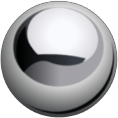
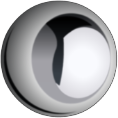
Finished 'Play' mobile menu

diff --git a/eLMaze-Mobile/core/src/com/mygdx/elmaze/view/PlayGameView.java b/eLMaze-Mobile/core/src/com/mygdx/elmaze/view/PlayGameView.java
@@ -24,41 +24,23 @@ public class PlayGameView extends MenuView {
         super(game, TYPE.PLAY);
 
         loadAssets();
-        setupTextImage();
-        setupBallImage();
         setupStage();
     }
 
     @Override
     public void render(float delta) {
-        //handleInputs();
+        handleInputs();
 
         stage.act(delta); //Perform ui logic
         stage.draw(); //Draw the UI
     }
 
     private void setupStage() {
+        textImage = ImageFactory.makeImage(game,"playText.png", SCREEN_WIDTH*5/7, SCREEN_HEIGHT/2,SCREEN_WIDTH*3/10);
+        ballImage = ImageFactory.makeImage(game,"ball.png", SCREEN_WIDTH*7/28, SCREEN_HEIGHT/2,SCREEN_WIDTH*3/10);
+
         stage.addActor(textImage);
-        //stage.addActor(ballImage);
-    }
-
-    private void setupTextImage() {
-        //Texture texture = ImageFactory.makeSizedTexture("playText.png", SCREEN_WIDTH*90/100);
-        //textImage.rotateBy(90);
-        //textImage = new Image(texture);
-        //textImage.setPosition(SCREEN_WIDTH/2, SCREEN_HEIGHT*8/10);
-        //textImage.setDrawable(new TextureRegionDrawable(new TextureRegion(texture)));
-
-
-        //textImage = ImageFactory.makeImage("eLMazeTitle.png", SCREEN_WIDTH/2, SCREEN_HEIGHT*7.7f/9,SCREEN_WIDTH*82/100);
-        //textImage = new Image(new TextureRegionDrawable(new TextureRegion(new Texture("eLMazeTitle.png"))));
-        //textImage.setBounds(SCREEN_WIDTH/2, SCREEN_HEIGHT*7.7f/9, );
-        //textImage.setPosition(SCREEN_WIDTH/2, SCREEN_HEIGHT*7.7f/9, 1);
-        //textImage.setDrawable(;
-    }
-
-    private void setupBallImage() {
-
+        stage.addActor(ballImage);
     }
 
     private void handleInputs(){
@@ -74,6 +56,8 @@ public class PlayGameView extends MenuView {
     }
 
     protected void loadAssets() {
+        this.game.getAssetManager().load("playText.png" , Texture.class);
+        this.game.getAssetManager().load("ball.png" , Texture.class);
         this.game.getAssetManager().finishLoading();
     }
 
